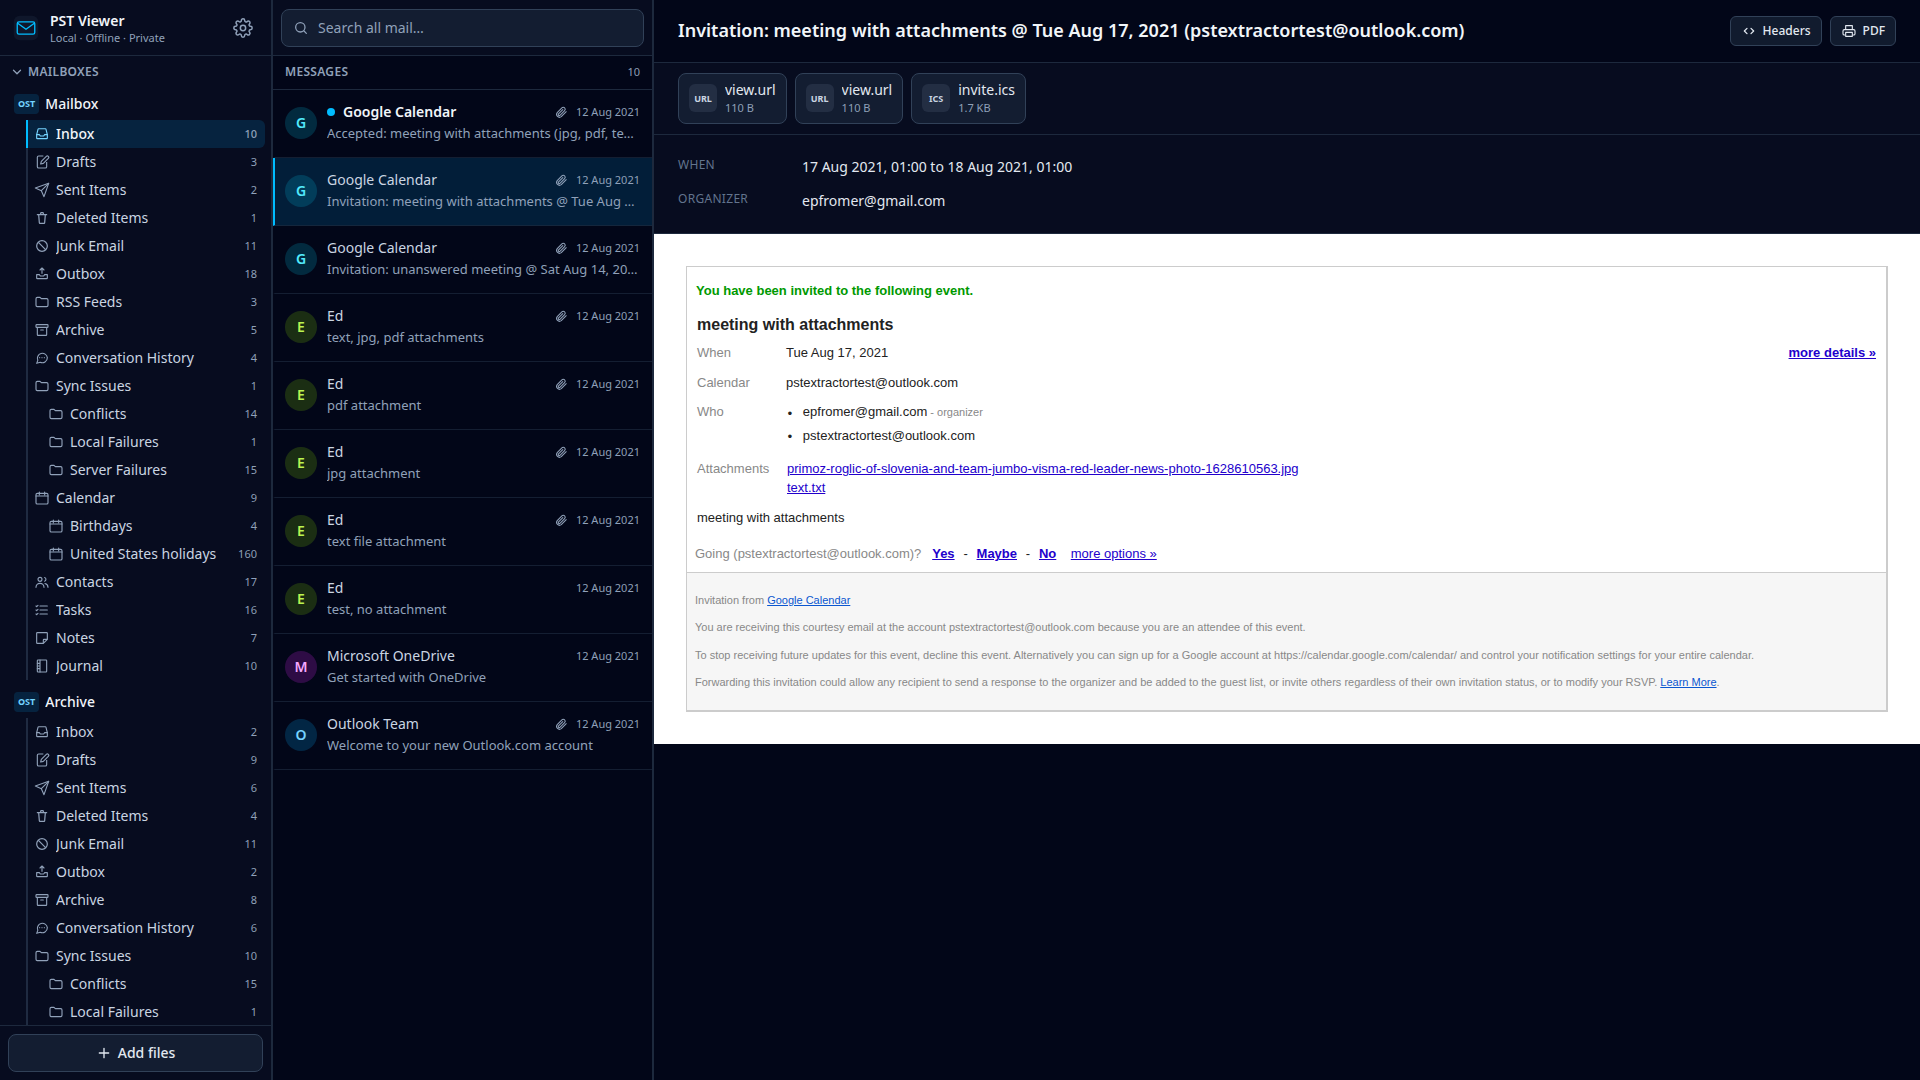
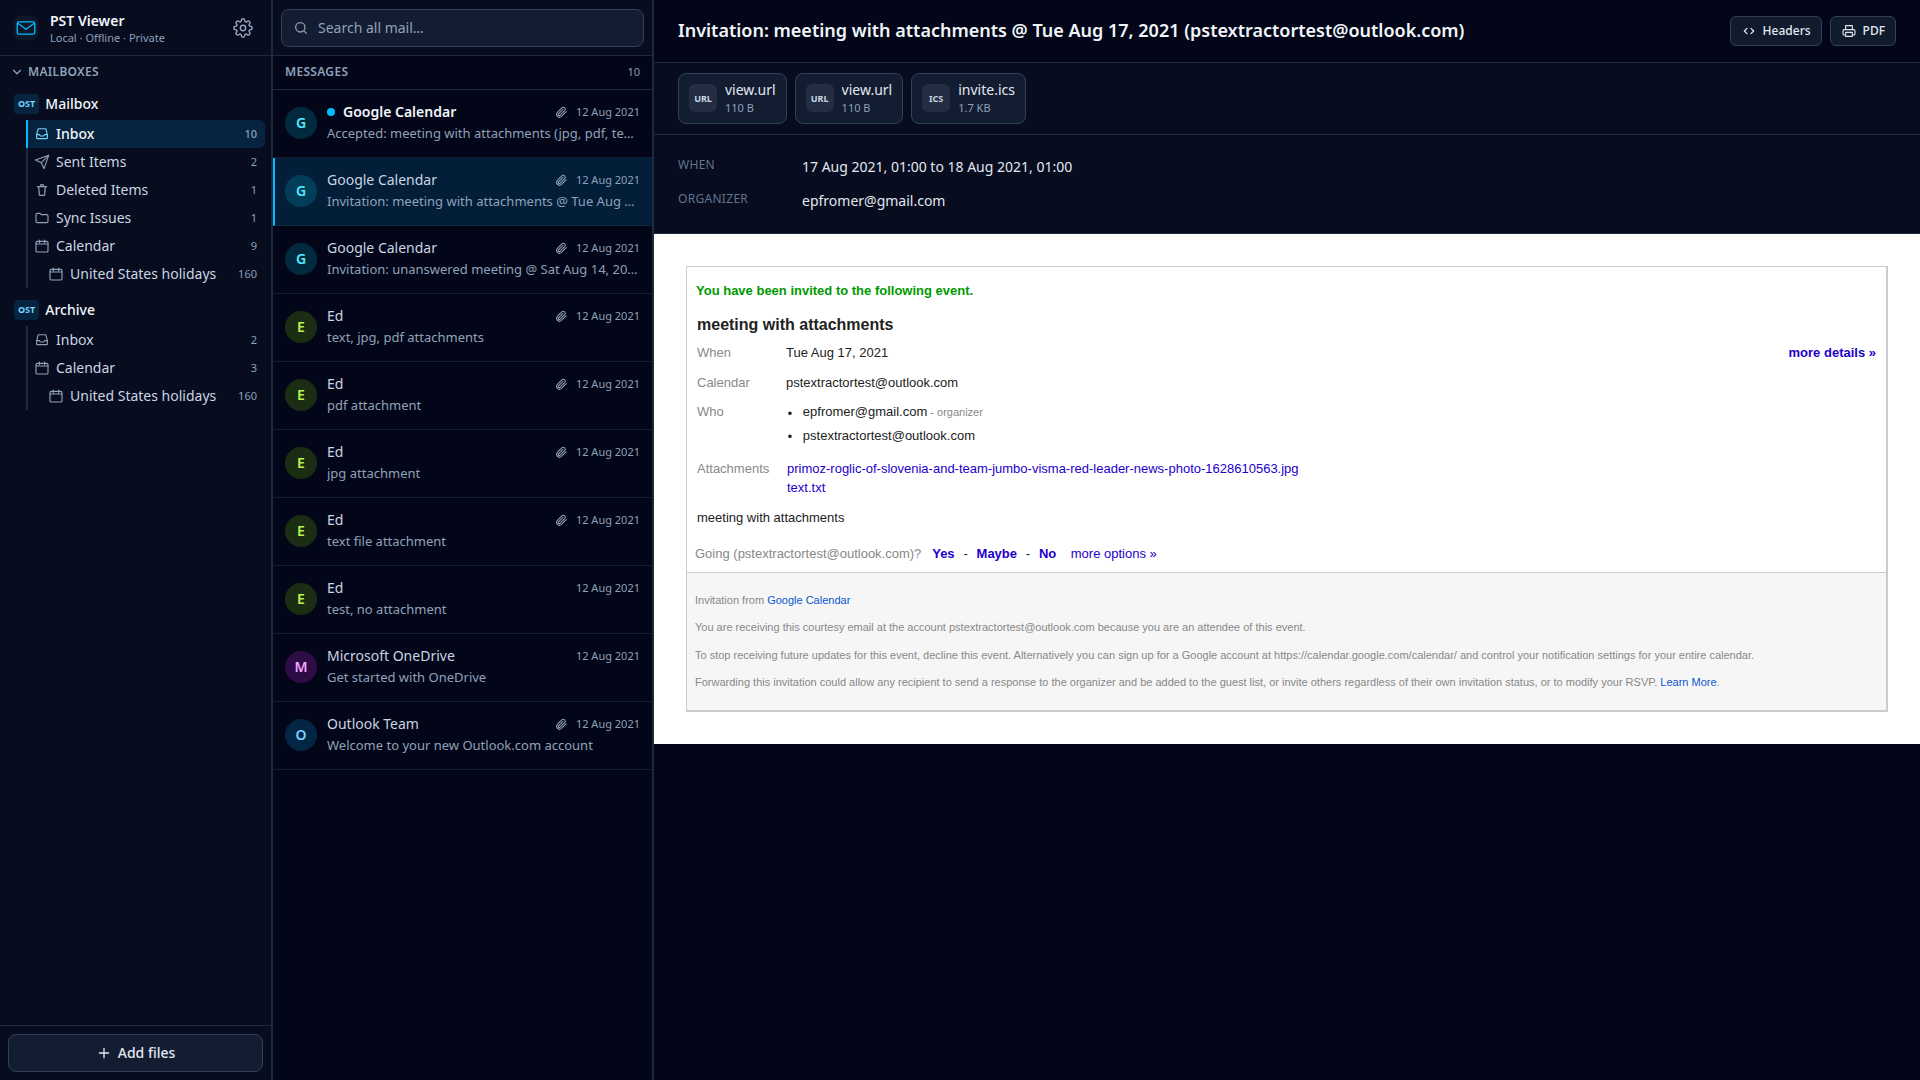
Bring the README in line with the app, and refresh the screenshots
The OCR setting was described as a toggle on the import screen, which
it stopped being when the settings moved behind the gear button. There
is now a line saying what is in Settings, one covering keyboard use,
and the search cap is stated plainly: a review tool should never let a
capped list be read as the whole answer.

Screenshots retaken so the filter panel shows the mailbox and folder
fields, and the mailbox column lines up in the results.

Changed region(s): [[0.0, 0.1222, 0.125, 0.55], [0.0, 0.5806, 0.0938, 0.9472]]

diff --git a/README.md b/README.md
@@ -27,7 +27,9 @@ No setup needed. Open the link, drop in a `.pst`, `.ost`, `.msg`, `.eml`, or `.z
 - **Attachment previews**: images, PDF, text/code, audio, video, nested emails, **spreadsheets** (`.xlsx/.xls/.csv/.ods`), and **Word** (`.docx`). Anything else is one-click downloadable.
 - **Every Outlook item type**: contacts (name, emails, phones, company, addresses, birthday, notes), distribution lists (with members), calendar appointments (time, location, organizer, attendees), tasks (status, due date, % complete), journal entries, and sticky notes all render as cards, so nothing shows up blank. **Click any sender or recipient** on an email to look them up in the loaded mailboxes' contacts (matched by exact email address, or exact name when the message has no real address).
 - **Fast search** across all open mailboxes at once (each result says which mailbox it came from): subjects, senders, recipients, body text, attachment names, and text inside images. A filter panel opens when you click the search box, so nothing has to be memorised, and searches can be narrowed to one **mailbox** or **folder** when you only care about part of what is open. The finished search index is kept on your device (like the OCR cache, cleared 7 days after a mailbox was last opened), so reopening the same file is searchable straight away instead of being scanned again. Words are typo-tolerant (fuzzy); numbers and reference codes are matched **exactly**, so an ID search stays precise. Matches are highlighted in the open email (the text, and the matching picture) and it scrolls to the first hit.
-- **OCR** (automatic, can be turned off): text inside images is read in the background and made searchable, covering both image attachments and pictures embedded in the email body. A toggle on the import screen (and in the sidebar) disables it entirely, including its cache; the choice is remembered. Images are sharpened first to read small text more reliably, and results are cached on your device for faster re-opens (cleared 7 days after a mailbox was last opened). Engine and model are bundled for full offline use.
+- **OCR** (automatic, can be turned off): text inside images is read in the background and made searchable, covering both image attachments and pictures embedded in the email body. A toggle in **Settings** (the gear button) disables it entirely, including its cache; the choice is remembered. Images are sharpened first to read small text more reliably, and results are cached on your device for faster re-opens (cleared 7 days after a mailbox was last opened). Engine and model are bundled for full offline use.
+- **Settings** (the gear button, top right): read text in images on or off, load images from the internet on or off, show or hide empty folders, and the theme and accent colours.
+- **Keyboard**: the folder tree, message list and search results can all be driven from the keyboard (arrow keys to move, Enter to open, Left and Right to collapse and expand a folder), and dialogs keep focus inside them and hand it back when they close.
 - **Export**: save a single email as **PDF** or as its original **`.eml`** (preserving the real headers and attachments), or merge several emails into one PDF (oldest-first or newest-first).
 - **Offline PWA**: works with no connection after first load, and is installable.
 
@@ -116,5 +118,6 @@ React + Vite + TypeScript + Tailwind. PST parsing via [`@hiraokahypertools/pst-e
 - **Colour categories on standalone `.msg` files** are not shown (the `.msg` parser cannot decode multi-value properties); categories in PST/OST mailboxes display normally.
 - **Corrupt or damaged mailboxes**: a partly-damaged file still opens and shows everything that is readable; messages that cannot be parsed are skipped and counted (a "N messages could not be read" note appears on the affected folder). A badly damaged file (broken header, truncated, or damaged internal index) is opened with **built-in recovery**: the file is scanned for surviving data structures and everything reachable is shown, marked with an amber badge. Only when recovery also finds nothing usable does the file fail to open; Microsoft's Inbox Repair Tool (`scanpst.exe`, bundled with Outlook) is then the last resort. Either way, other loaded mailboxes keep working. (Recovery covers modern Unicode PST/OST files; it does not cover ANSI-era files from Outlook 97-2002.)
 - Search becomes available for a mailbox once its background indexing finishes (a progress indicator is shown).
+- **Search shows the first 200 matches.** The heading says how many matched in total ("200 of 4,812"), so a capped list is never mistaken for the whole answer; narrow the search to see the rest.
 - **Text inside images can be misread by OCR**, especially when it is very small or low-contrast. It also becomes searchable a little after the rest of a mailbox, since it is read in the background (a "Reading images" progress indicator shows while it runs).
 - **Privacy browsers with canvas fingerprinting protection** (some hardened Chromium forks) scramble canvas pixel data, which breaks the image sharpening OCR relies on, so text inside images may not be searchable there. Body and text search still work everywhere. For image OCR, use a standard Chromium, or allow canvas/fingerprinting for the site.
